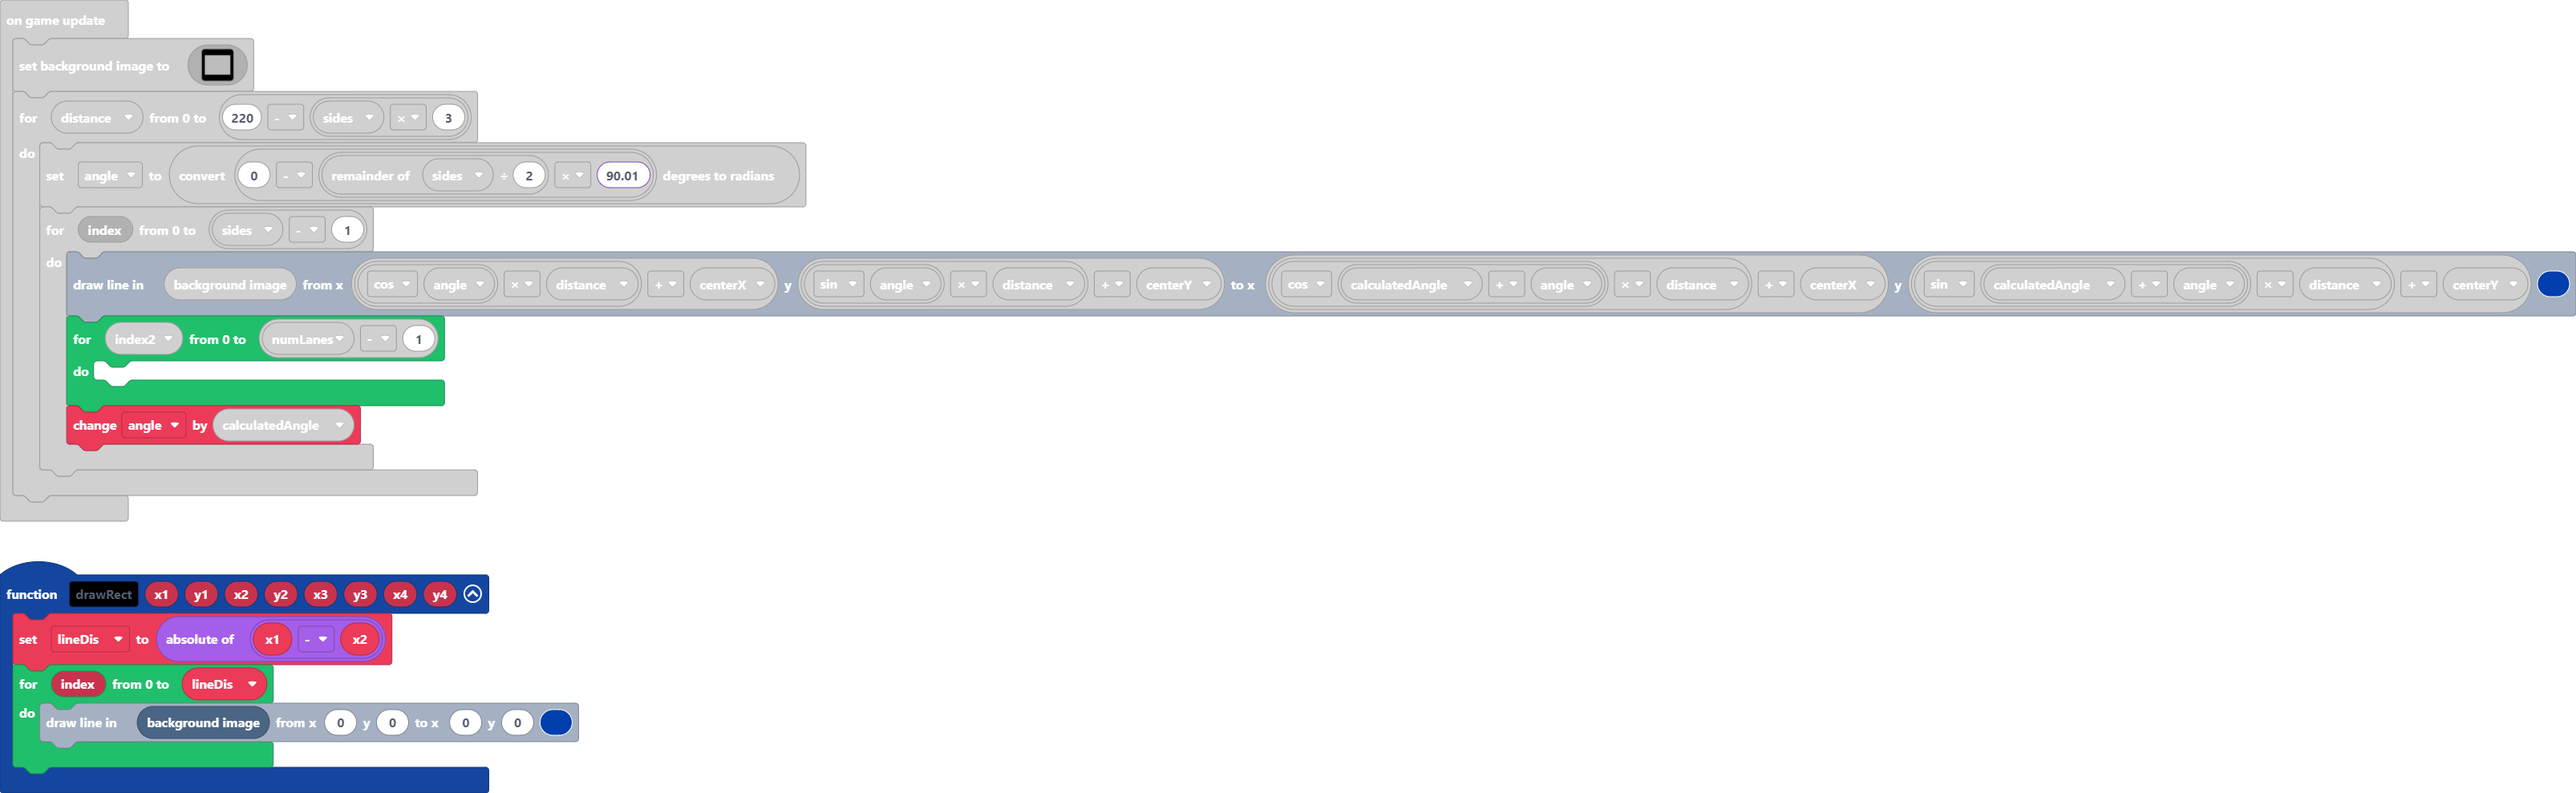
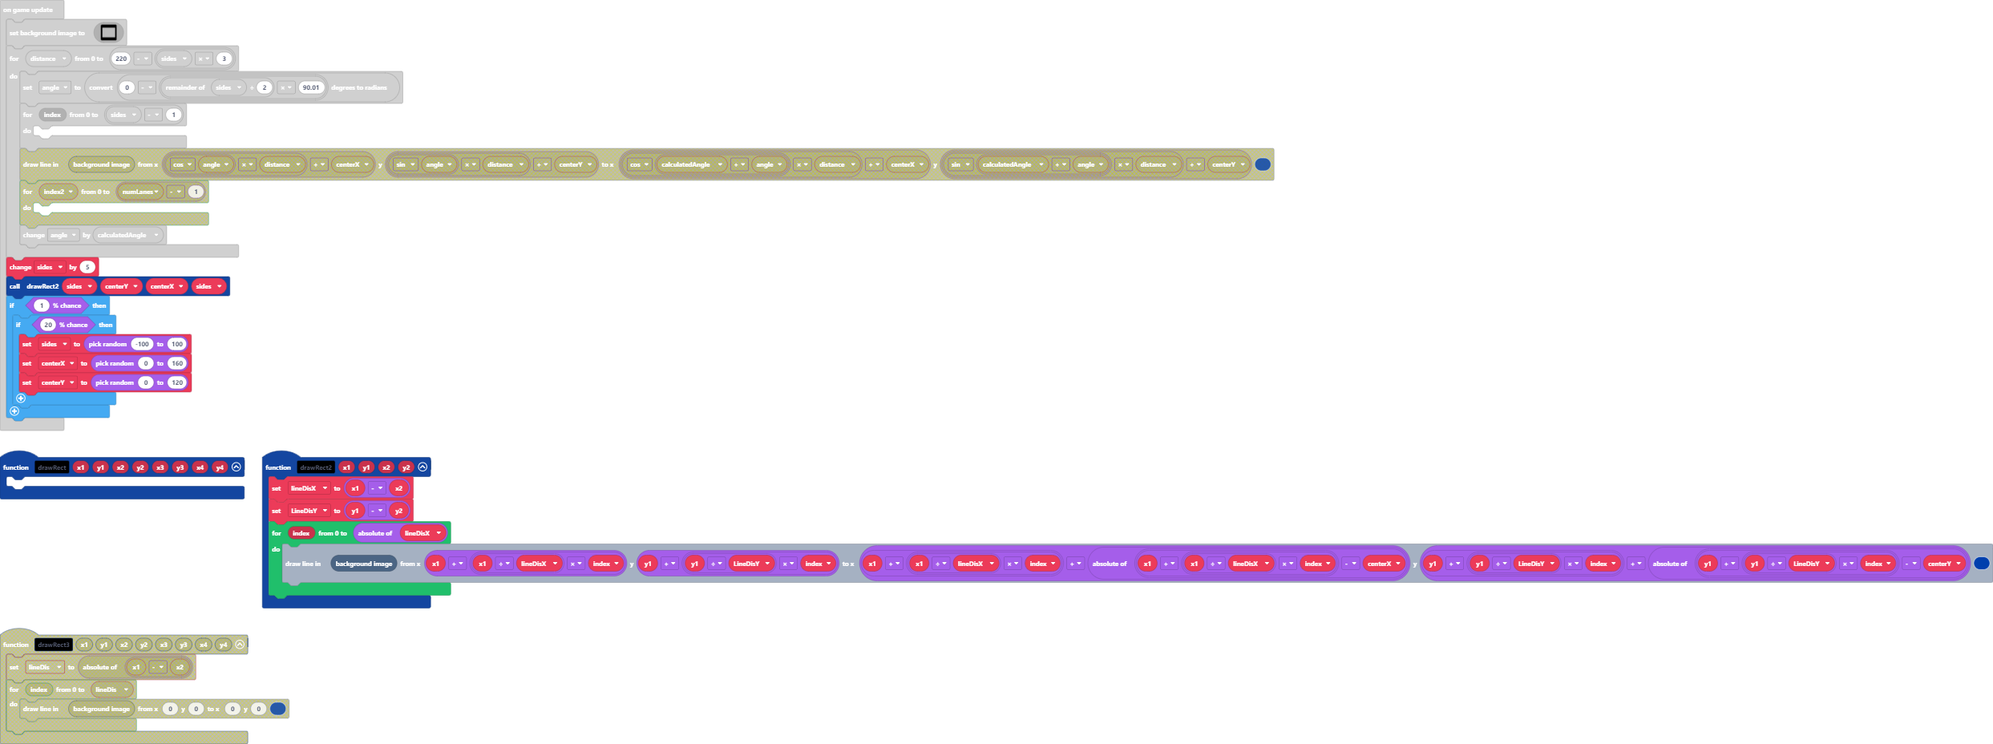
Update main.blocks, main.ts

Changed region(s): [[0.0, 0.0, 1.0, 1.0]]

diff --git a/main.ts b/main.ts
@@ -1,11 +1,18 @@
-function drawRect (x1: number, y1: number, x2: number, y2: number, x3: number, y3: number, x4: number, y4: number) {
-    lineDis = Math.abs(x1 - x2)
-    for (let index = 0; index <= lineDis; index++) {
-        scene.backgroundImage().drawLine(0, 0, 0, 0, 8)
+function drawRect2 (x1: number, y1: number, x2: number, y2: number) {
+    lineDisX = x1 - x2
+    LineDisY = y1 - y2
+    for (let index = 0; index <= Math.abs(lineDisX); index++) {
+        scene.backgroundImage().drawLine(x1 + x1 / lineDisX * index, y1 + y1 / LineDisY * index, x1 + x1 / lineDisX * index + Math.abs(x1 + x1 / lineDisX * index - centerX), y1 + y1 / LineDisY * index + Math.abs(y1 + y1 / LineDisY * index - centerY), 8)
     }
 }
+function drawRect (x1: number, y1: number, x2: number, y2: number, x3: number, y3: number, x4: number, y4: number) {
+	
+}
 let angle = 0
-let lineDis = 0
+let LineDisY = 0
+let lineDisX = 0
+let centerY = 0
+let centerX = 0
 stats.turnStats(true)
 scene.setBackgroundImage(img`
     1111111111111111111111111111111111111111111111111111111111111111111111111111111111111111111111111111111111111111111111111111111111111111111111111111111111111111
@@ -130,8 +137,8 @@ scene.setBackgroundImage(img`
     1111111111111111111111111111111111111111111111111111111111111111111111111111111111111111111111111111111111111111111111111111111111111111111111111111111111111111
     `)
 let numLanes = 4
-let centerX = 80
-let centerY = 60
+centerX = 80
+centerY = 60
 let sides = 3
 let calculatedAngle = spriteutils.degreesToRadians(360 / sides)
 game.onUpdate(function () {
@@ -260,11 +267,16 @@ game.onUpdate(function () {
     for (let distance = 0; distance <= 220 - sides * 3; distance++) {
         angle = spriteutils.degreesToRadians(0 - sides % 2 * 90.01)
         for (let index = 0; index <= sides - 1; index++) {
-            scene.backgroundImage().drawLine(Math.cos(angle) * distance + centerX, Math.sin(angle) * distance + centerY, Math.cos(calculatedAngle + angle) * distance + centerX, Math.sin(calculatedAngle + angle) * distance + centerY, 8)
-            for (let index2 = 0; index2 <= numLanes - 1; index2++) {
-            	
-            }
             angle += calculatedAngle
+        }
+    }
+    sides += 5
+    drawRect2(sides, centerY, centerX, sides)
+    if (Math.percentChance(1)) {
+        if (Math.percentChance(20)) {
+            sides = randint(-100, 100)
+            centerX = randint(0, 160)
+            centerY = randint(0, 120)
         }
     }
 })
